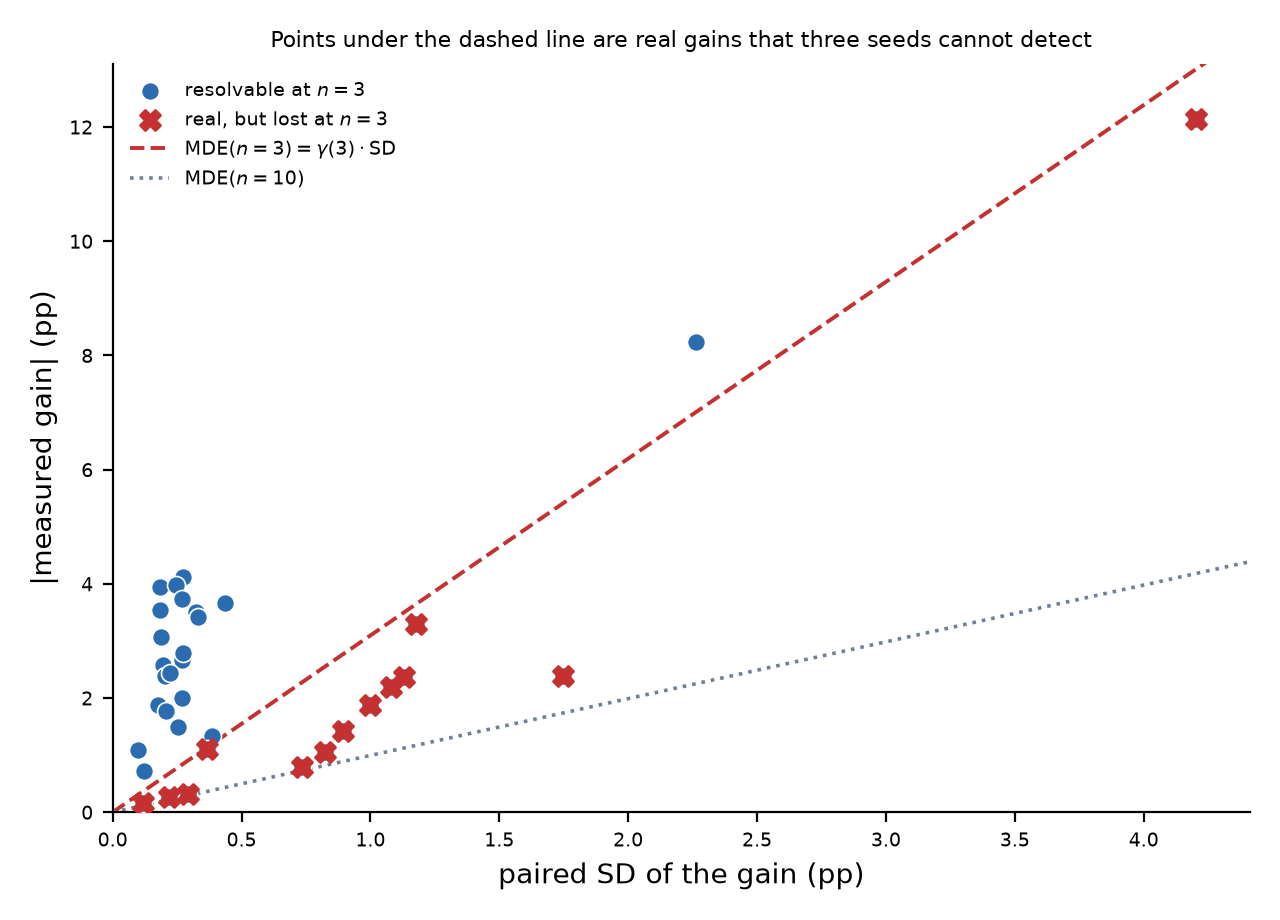
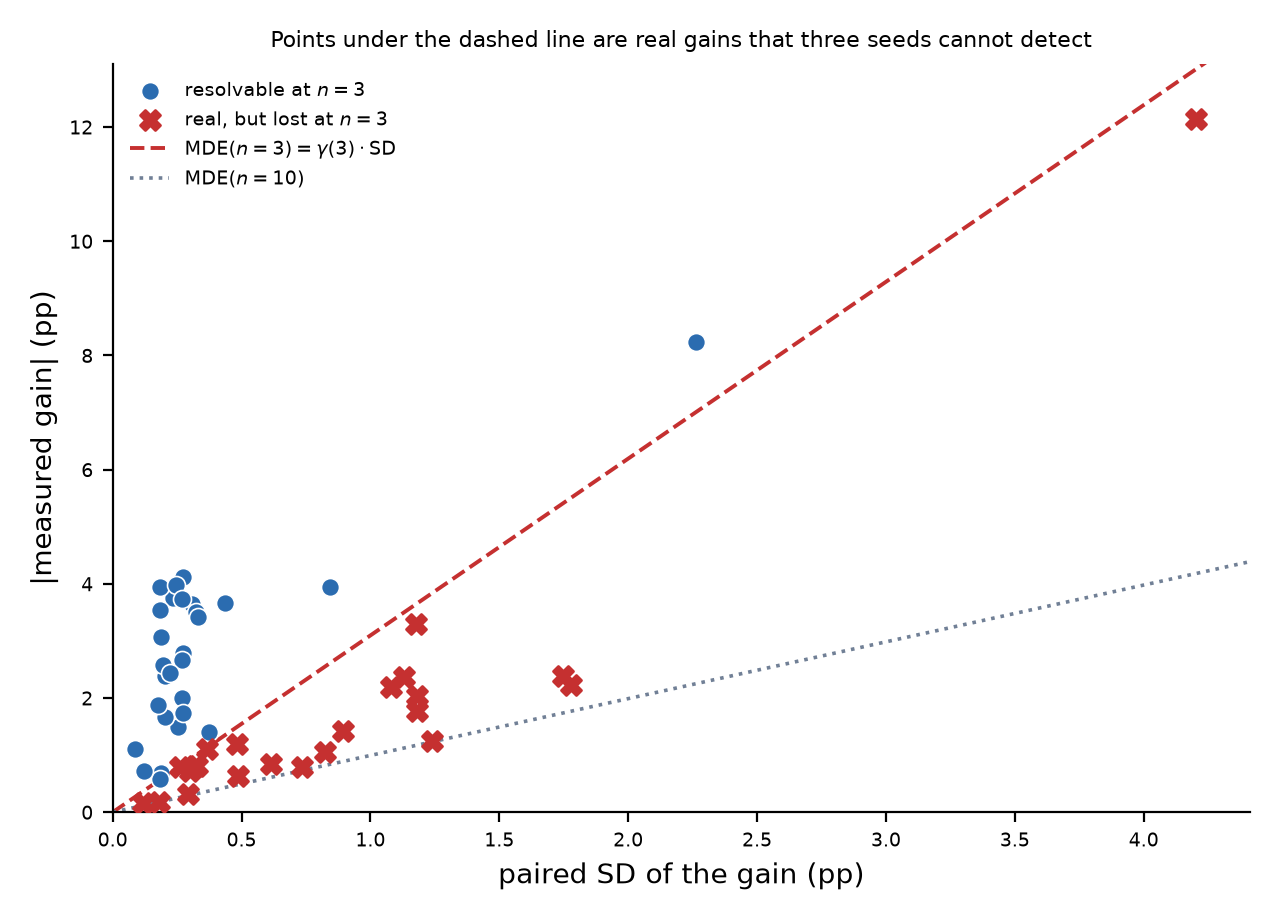
Correct the resolution-floor counts: 60 cells, 45%, and state the sensitivity
The error audit showed the resolution-floor numbers did not reproduce: the text said 42
ten-seed cells, 35 resolvable at ten, 22 at three and 37% lost, but none of those figures
appeared in the supplement and recomputing with the project's own cell parser gave a
different base.

Recomputed with scripts/_cells.py (canonical key = pair, family, budget, epochs; test
column): 60 cells carry at least ten paired seeds, 51 are resolvable at ten seeds, 28 at
three, so 45% of the gains that are real would go undetected at the usual seed count.
Median MDE is 1.000 pp at n=3 against 0.321 pp at n=10, and the median magnitude is
1.581 pp.

The share depends on the inclusion rule - counting only the cells that carry exactly ten
gives 35% - so section 7.1 now states the range rather than a single figure. Figure 2 is
regenerated from the same 60 cells. The direction of the claim is unchanged in every
variant, but the numbers now come from one named parser and one stated rule.

diff --git a/README.md b/README.md
@@ -38,7 +38,7 @@
 | `MANIFEST_sha256.csv` | 逐文件字节数 + sha256 |
 
 **主稿与补材的 md5**（与盲审包内的自述块一致）：
-主稿 `C7EA48E5F0019D39404A6B8F3D619EF9`、补材 `A4CC11BA1F74439846D9DF8810BDE5CF`。
+主稿 `996603BE5FE04C594684C423992C7583`、补材 `A4CC11BA1F74439846D9DF8810BDE5CF`。
 
 ---
 
